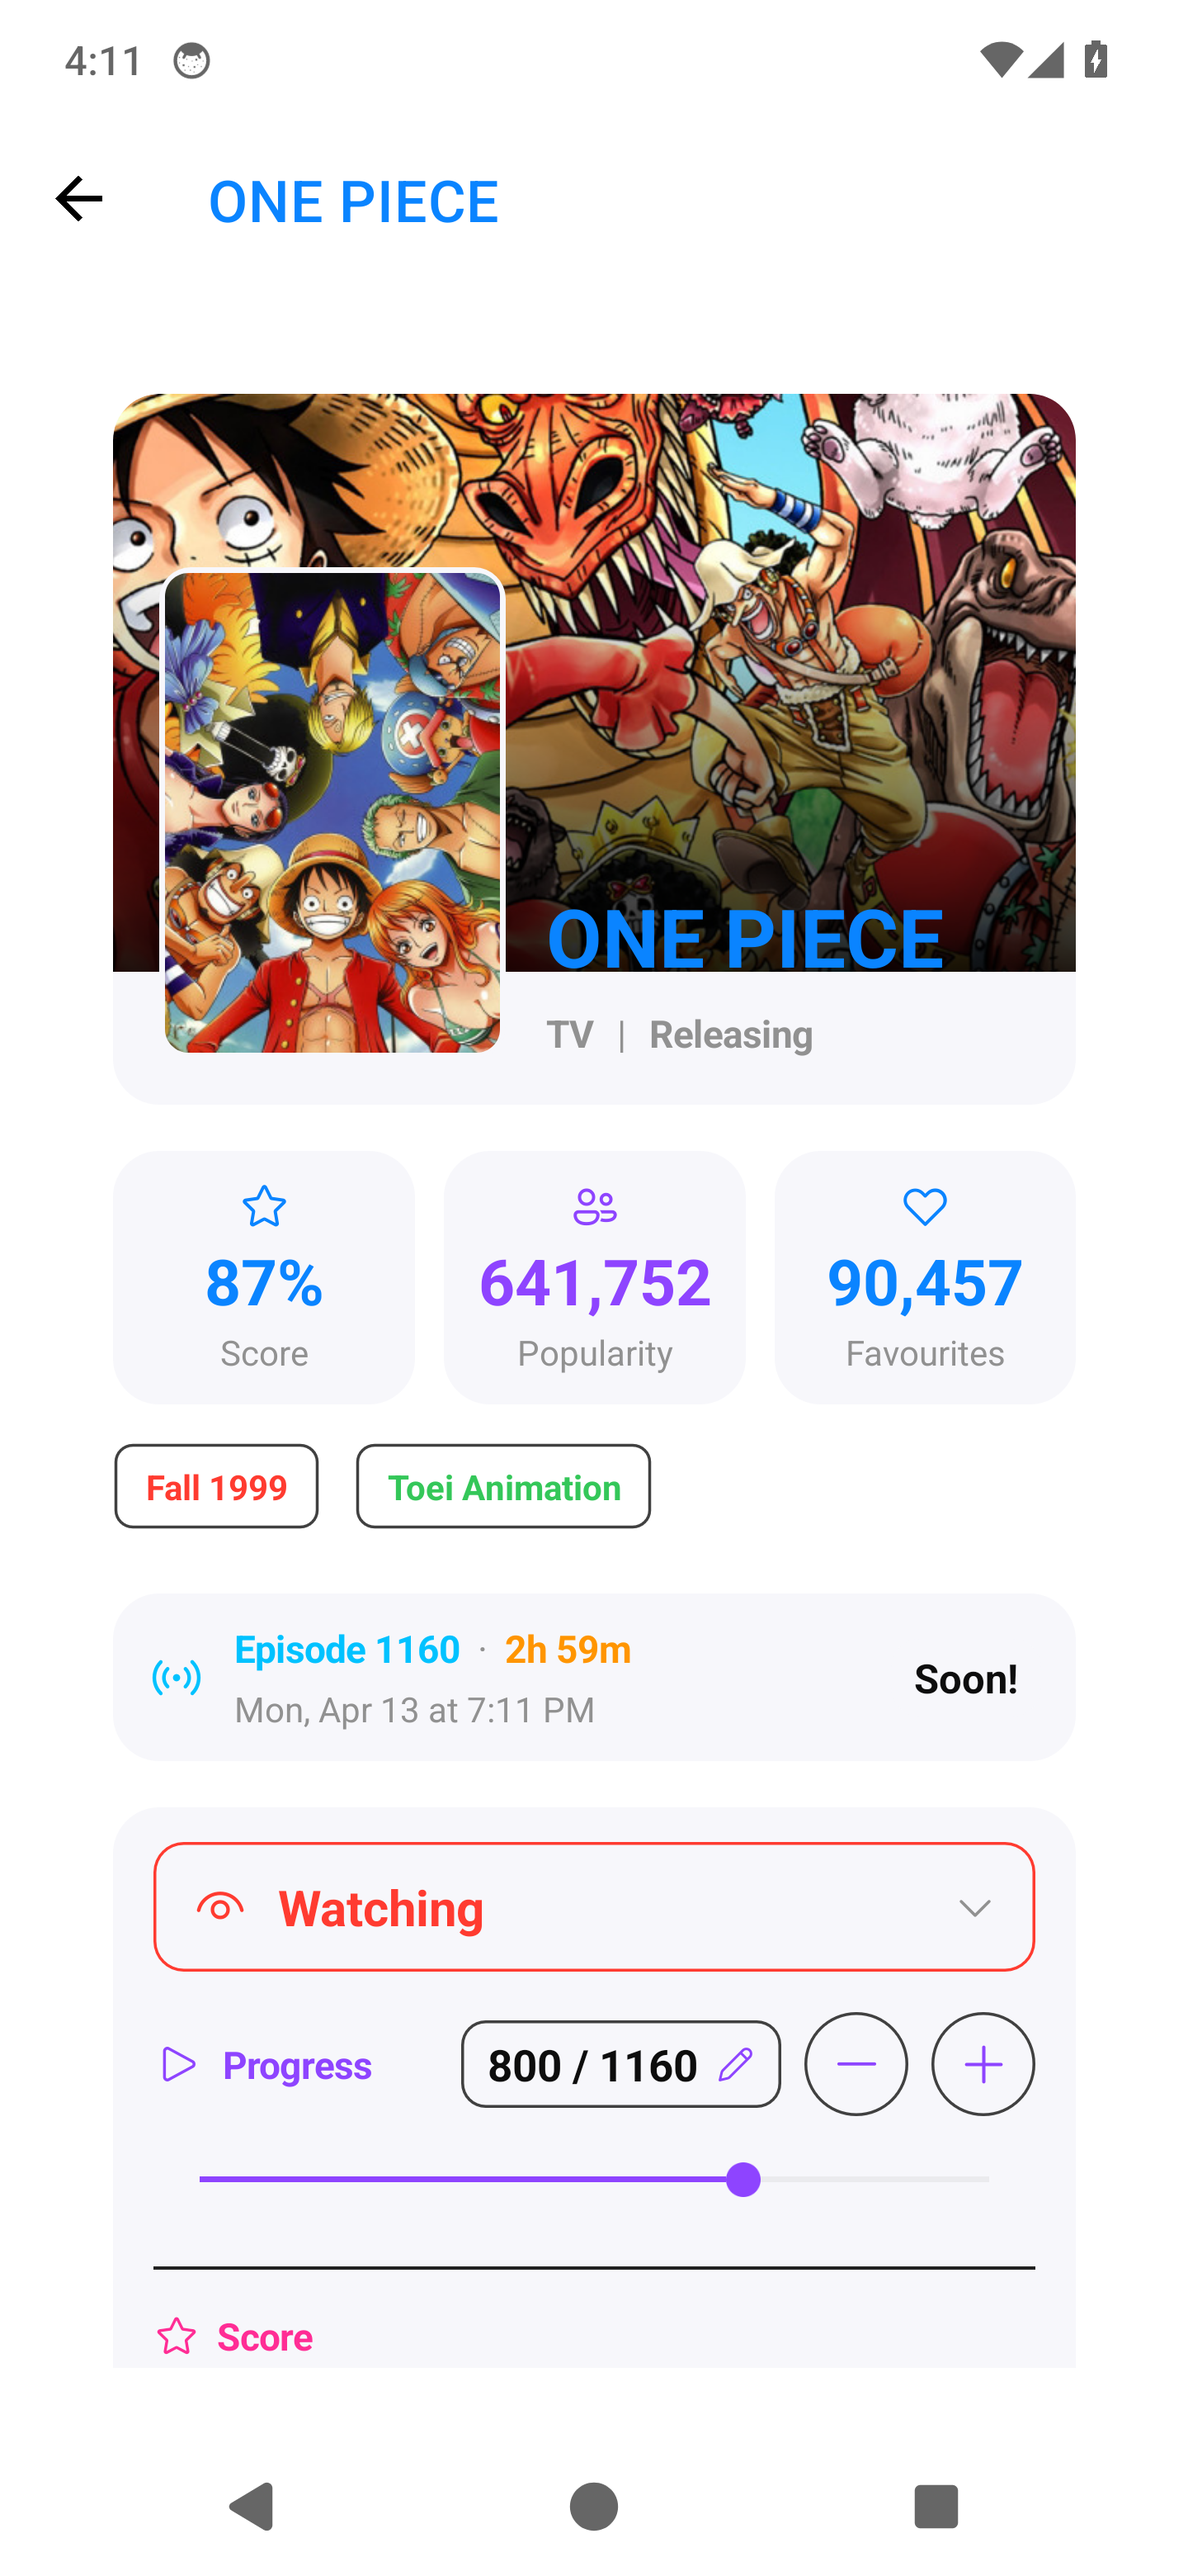
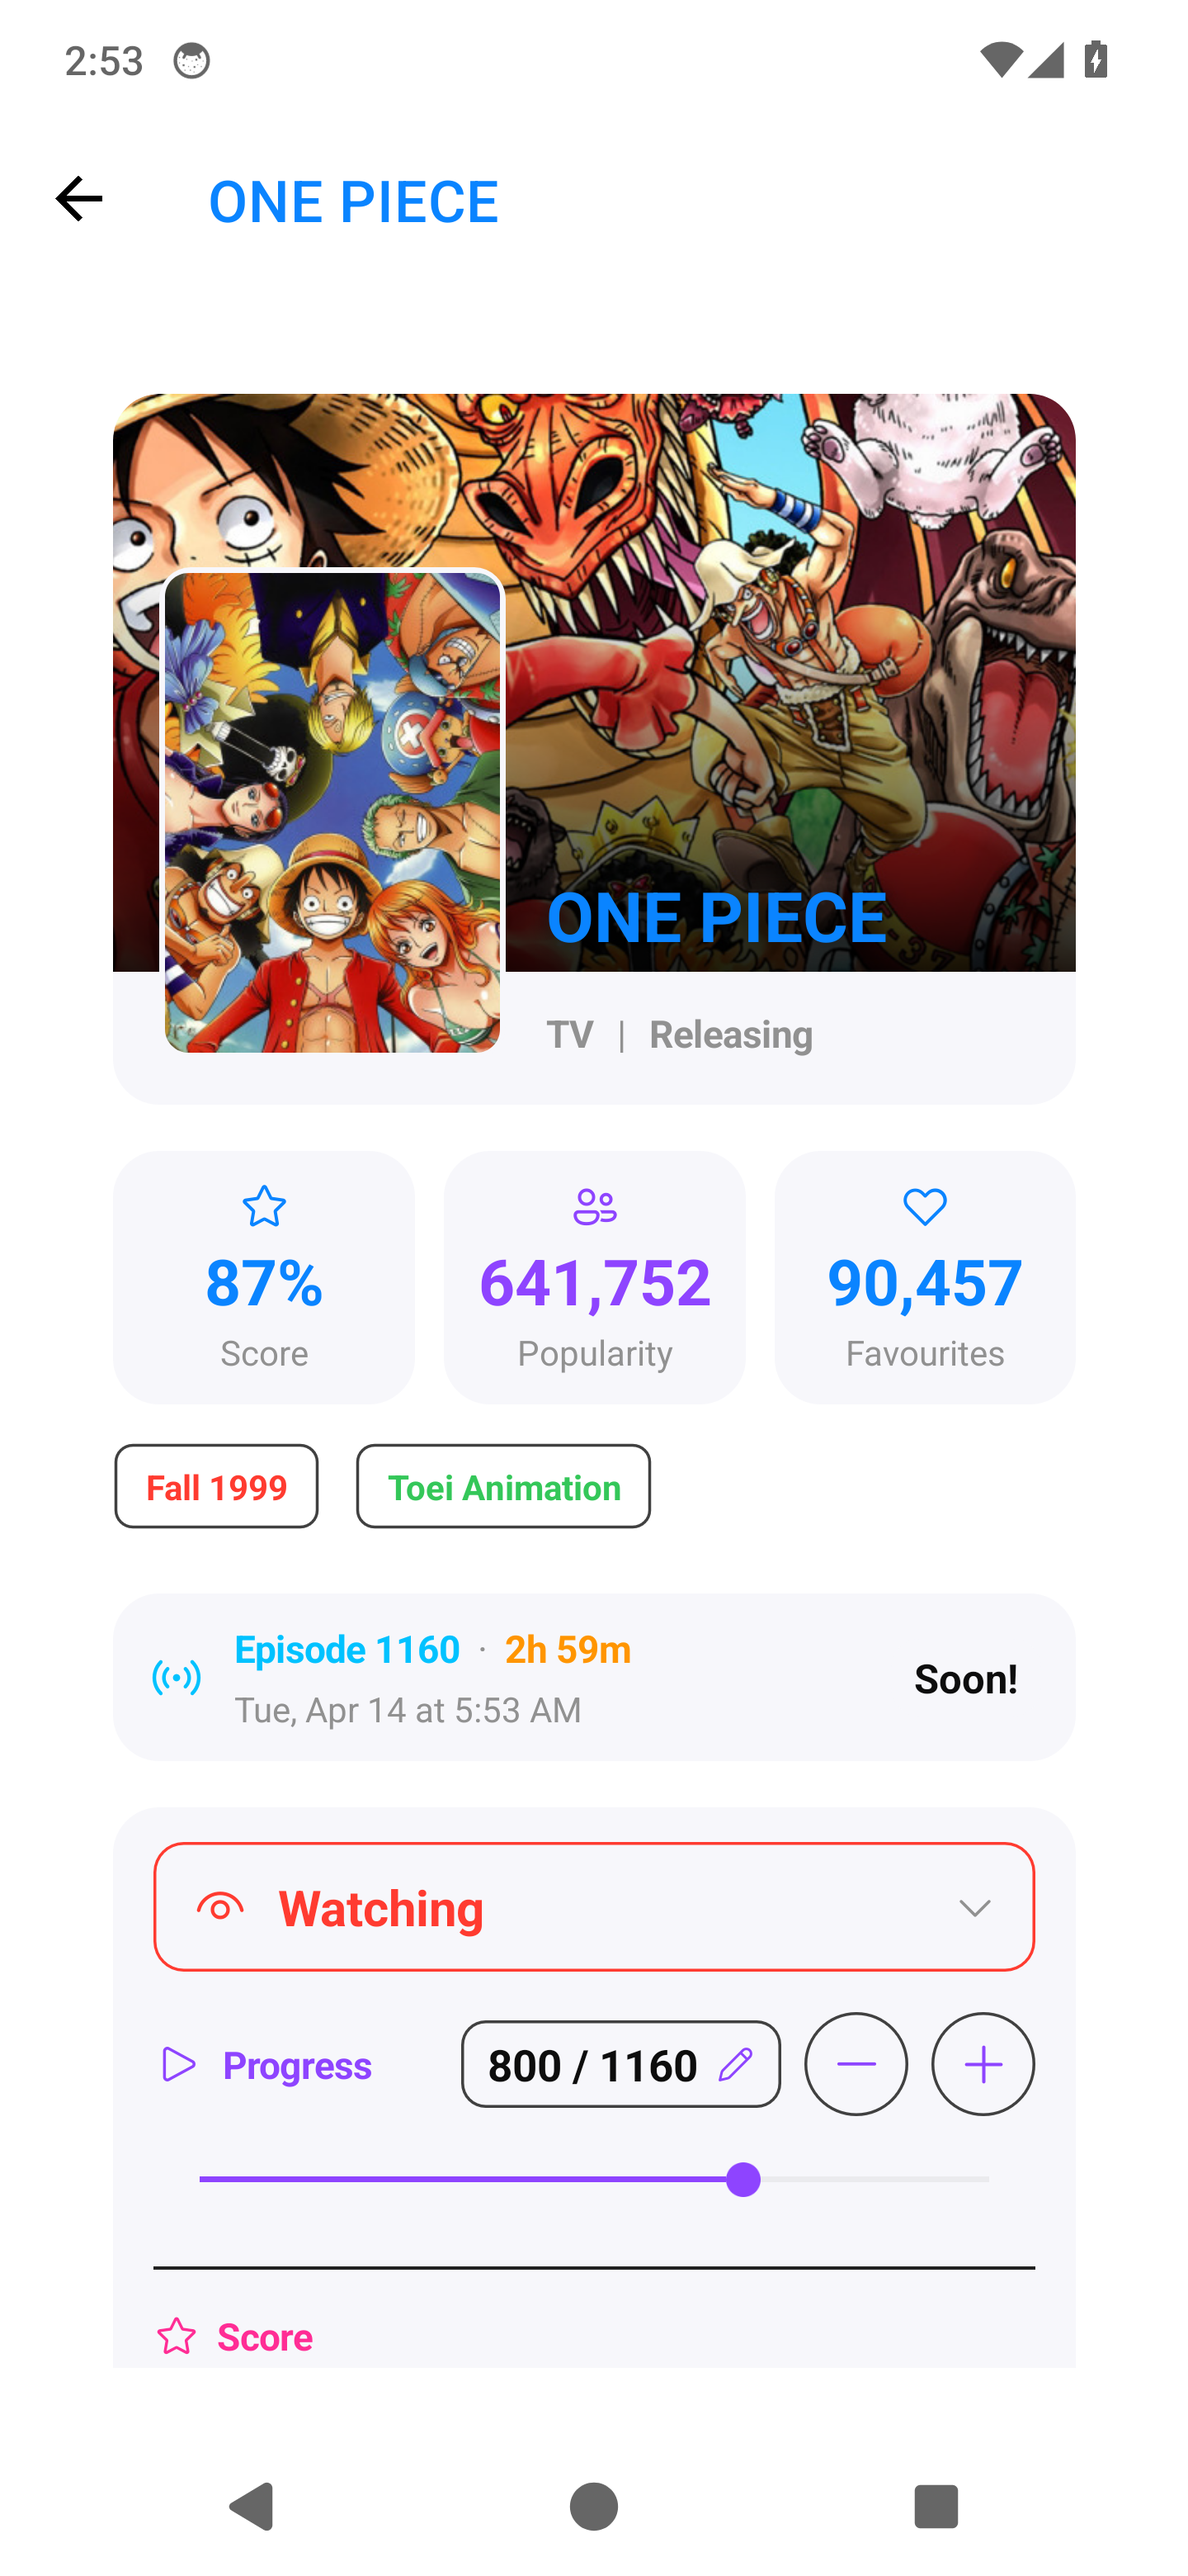
fix: lock portrait orientation and improve details title readability (#41)
* fix: lock portrait orientation, fix title truncation, guard CI screenshot push

- #37: Add ScreenOrientation.Portrait to MainActivity [Activity] attribute
- #27: Remove MaxLines/TailTruncation on hero title label; use WordWrap + FontSize 24
- #24: Skip screenshot commit/push if PR branch no longer exists (merged mid-run)

Closes #37, closes #27, closes #24

* fix: improve details title readability and screenshot comment state

* CI: Update UI screenshots [skip ci]

* chore: clean up PR-only workflow branches and explicit title shadow

* CI: Update UI screenshots [skip ci]

* Fix title spacing

* CI: Update UI screenshots [skip ci]

* Updating to sensor portrait even though in android it won't be used much

* CI: Update UI screenshots [skip ci]

---------

Changed region(s): [[0.4375, 0.342, 0.7812, 0.3731], [0.1875, 0.6529, 0.5, 0.684], [0.0625, 0.0, 0.125, 0.0311]]

diff --git a/src/Views/MediaDetailsLoadedContentView.xaml b/src/Views/MediaDetailsLoadedContentView.xaml
@@ -63,9 +63,17 @@
                         <VerticalStackLayout Grid.Column="1" Spacing="6" VerticalOptions="End">
                             <Label Text="{Binding Media.DisplayTitle}"
                                    Style="{StaticResource Title1}"
+                                   FontSize="24"
                                    TextColor="{Binding PageTitle, Converter={StaticResource RainbowAccentConverter}}"
-                                   MaxLines="3"
-                                   LineBreakMode="TailTruncation" />
+                                   LineBreakMode="WordWrap"
+                                   Margin="0,0,0,10">
+                                <Label.Shadow>
+                                    <Shadow Offset="0,0"
+                                            Radius="6"
+                                            Brush="#000000"
+                                            Opacity="0.9" />
+                                </Label.Shadow>
+                            </Label>
                             <HorizontalStackLayout Spacing="8">
                                 <Label Text="{Binding FormatDisplay}"
                                        Style="{StaticResource Caption1Strong}"

diff --git a/src/Platforms/Android/MainActivity.cs b/src/Platforms/Android/MainActivity.cs
@@ -11,8 +11,9 @@ namespace AniSprinkles;
 
 [Activity(
     Theme = "@style/Maui.SplashTheme",
-    MainLauncher = true, 
-    LaunchMode = LaunchMode.SingleTop, 
+    MainLauncher = true,
+    LaunchMode = LaunchMode.SingleTop,
+    ScreenOrientation = ScreenOrientation.SensorPortrait,
     ConfigurationChanges = 
         ConfigChanges.ScreenSize | 
         ConfigChanges.Orientation | 
